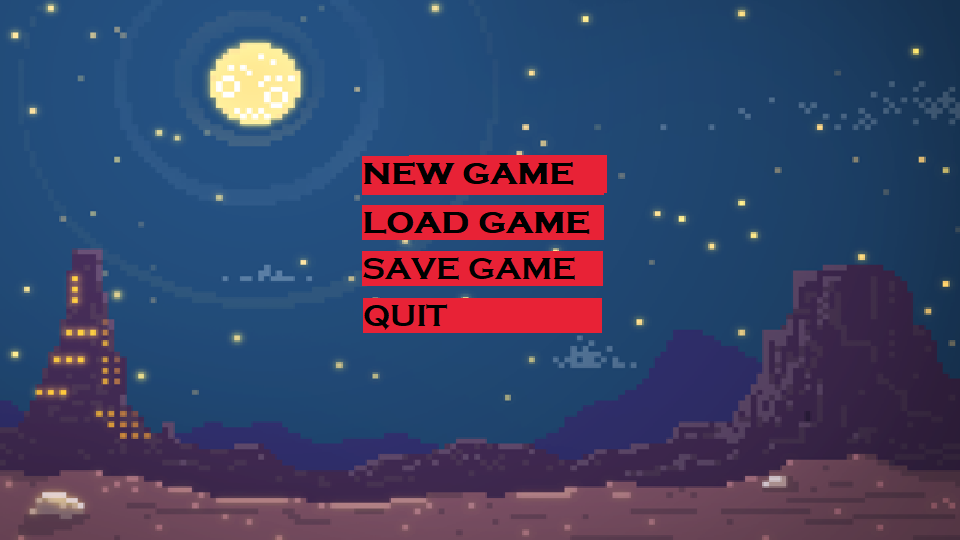
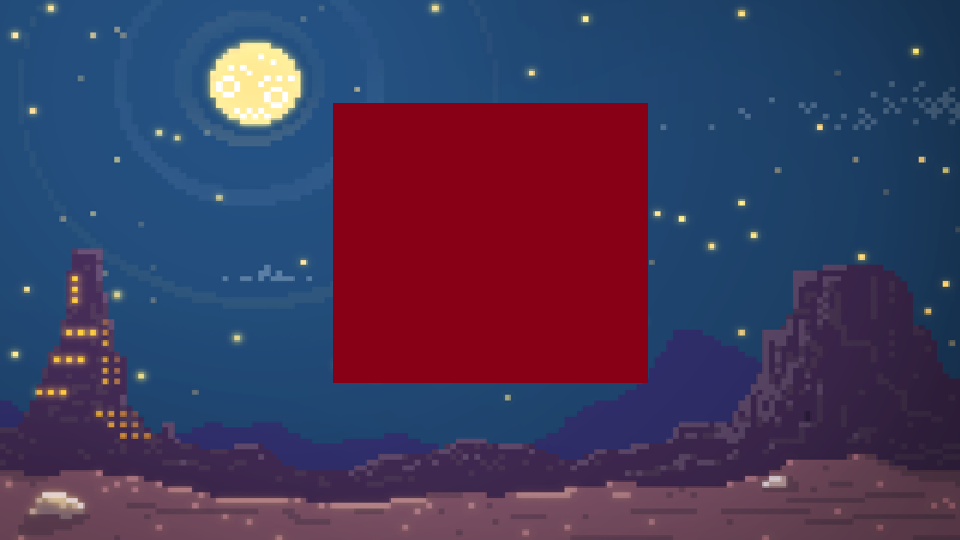
worldmap shittzle

Changed region(s): [[0.3438, 0.1778, 0.6875, 0.7111]]

diff --git a/WaterSmash/GameState/MenuGameState.cs b/WaterSmash/GameState/MenuGameState.cs
@@ -5,41 +5,159 @@ using System.Text;
 using System.Threading.Tasks;
 using Microsoft.Xna.Framework;
 using Microsoft.Xna.Framework.Input;
+using Microsoft.Xna.Framework.Graphics;
+using Microsoft.Xna.Framework.Content;
 
 namespace Water
 {
     class MenuGameState : IGameState
     {
         private GameStateManager gameStateManager;
+        GraphicsDevice graphics = GameServices.GetService<GraphicsDevice>();
+        ContentManager content = GameServices.GetService<ContentManager>();
+        Game1 game = GameServices.GetService<Game1>();
+        SpriteBatch spriteBatch;
+        Texture2D image;
+        List<Button> buttons = new List<Button>();
+        Button CurrentButton;
+        int index = 0;
+
+
+
 
         public MenuGameState(GameStateManager gameStateManager)
         {
+            
+            addButtons();
             this.gameStateManager = gameStateManager;
+            
         }
 
         public void Draw(GameTime gameTime)
         {
-            throw new NotImplementedException();
+            spriteBatch.Begin();
+
+            spriteBatch.Draw(image, new Rectangle(0, 0, 800, 480), Color.White);
+
+            
+
+            spriteBatch.End();
+            foreach (Button button in buttons)
+            {
+                button.Draw(spriteBatch);
+            }
+            //buttons.Draw(spriteBatch);
+            //start.Update();
+        }
+
+        private void addButtons()
+        {
+            Viewport viewport = graphics.Viewport;
+
+            Vector2 screenCenter = new Vector2(viewport.Width / 2f, viewport.Height / 2f);
+            
+
+            Rectangle button = new Rectangle((viewport.Width / 2) - (306/2), 50, 306, 64);
+            Texture2D play = content.Load<Texture2D>("play_default");
+            Texture2D playHover = content.Load<Texture2D>("play_hover");
+            buttons.Add(new Button(button, play, playHover, play, true));
+
+
+            Texture2D newGame = content.Load<Texture2D>("play_default");
+            Texture2D newGameHover = content.Load<Texture2D>("play_hover");
+            buttons.Add(new Button(new Rectangle((viewport.Width / 2) - (306 / 2), 150, 306, 64), newGame, newGameHover, newGame, false));
+
+
+
+            Texture2D loadGame = content.Load<Texture2D>("play_default");
+            Texture2D loadGameHover = content.Load<Texture2D>("play_hover");
+            buttons.Add(new Button(new Rectangle((viewport.Width / 2) - (306 / 2), 250, 306, 64), loadGame, loadGameHover, loadGame, false));
+
+
+
+            Texture2D saveGame = content.Load<Texture2D>("play_default");
+            Texture2D saveGameHover = content.Load<Texture2D>("play_hover");
+            buttons.Add(new Button(new Rectangle((viewport.Width / 2) - (306 / 2), 350, 306, 64), saveGame, saveGameHover, saveGame, false));
+
+
+            Texture2D quit = content.Load<Texture2D>("play_default");
+            Texture2D quitHover = content.Load<Texture2D>("play_hover");
+            buttons.Add(new Button(new Rectangle((viewport.Width / 2) - (306 / 2), 450, 306, 64), quit, quitHover, quit, false));
         }
 
         public void Entered(params object[] args)
         {
-            throw new NotImplementedException();
+            CurrentButton = buttons[0];
+            this.spriteBatch = new SpriteBatch(graphics);
+            image = content.Load<Texture2D>("start");
+            Texture2D play = content.Load<Texture2D>("play_default");
+            Texture2D playHover = content.Load<Texture2D>("play_hover");
+            
         }
-
+        bool keylock = false;
+        KeyboardState oldState;
         public void HandleInput(KeyboardState state)
         {
-            throw new NotImplementedException();
+            if (!keylock)
+            {
+                if (state.IsKeyDown(Keys.Down) && !oldState.IsKeyDown(Keys.Down))
+                {
+                    if (index < buttons.Count()-1)
+                    {
+                        index++;
+                        CurrentButton.setSelected(false);
+                        CurrentButton = buttons[index];
+                        CurrentButton.setSelected(true);                       
+                    }
+                    else
+                    {
+
+                    }
+                }
+                if (state.IsKeyDown(Keys.Up) && !oldState.IsKeyDown(Keys.Up))
+                {
+                    if (index > 0)
+                    {
+                        index--;
+                        CurrentButton.setSelected(false);
+                        CurrentButton = buttons[index];
+                        CurrentButton.setSelected(true); 
+                    }
+
+                }
+                if (state.IsKeyDown(Keys.Enter) && !oldState.IsKeyDown(Keys.Enter))
+                {
+                    if(CurrentButton == buttons[0])
+                    {
+                        gameStateManager.Change("worldmap", new Player());
+                    }
+                    if(CurrentButton == buttons[1])
+                    {
+                        gameStateManager.Change("worldmap");
+                    }
+                    if (CurrentButton == buttons[2])
+                    {
+                        game.Exit();
+                    }
+
+                }
+            }
+            oldState = state;
+            //wait();
         }
 
+        
         public void Leaving()
         {
-            throw new NotImplementedException();
+            content.Unload();
         }
 
         public void Update(GameTime gameTime)
         {
-            throw new NotImplementedException();
+            foreach (var button in buttons)
+            {
+                button.Update();
+            }
         }
     }
 }

diff --git a/WaterSmash/GameState/Button.cs b/WaterSmash/GameState/Button.cs
@@ -1,0 +1,75 @@
+using Microsoft.Xna.Framework;
+using Microsoft.Xna.Framework.Graphics;
+using Microsoft.Xna.Framework.Input;
+using System;
+using System.Collections.Generic;
+using System.Linq;
+using System.Text;
+using System.Threading.Tasks;
+using Microsoft.Xna.Framework.Content;
+
+namespace Water
+{
+    class Button
+    {
+        public enum State
+        {
+            None,
+            Pressed,
+            Hover,
+            Released
+        }
+
+        private Rectangle _rectangle;
+        private State _state;
+        private bool selected = false;
+        public State States
+        
+        {
+            get { return _state; }
+            set { _state = value; } // you can throw some events here if you'd like
+        }
+
+        private Dictionary<State, Texture2D> _textures;
+
+        public Button(Rectangle rectangle, Texture2D noneTexture, Texture2D hoverTexture, Texture2D pressedTexture, bool selected)
+        {
+            _rectangle = rectangle;
+            _textures = new Dictionary<State, Texture2D>
+        {
+            { State.None, noneTexture },
+            { State.Hover, hoverTexture },
+            { State.Pressed, pressedTexture }
+        };
+            this.selected = selected;
+            _state = State.Hover;
+        }
+
+        public void Update()//KeyboardState state
+        {
+
+            if (selected)
+            {
+                _state = State.Hover;
+            }
+            else
+            {
+                _state = State.None;
+            }
+        }
+
+        public void setSelected(bool selected)
+        {
+            this.selected = selected;
+        }
+
+        // Make sure Begin is called on s before you call this function
+        public void Draw(SpriteBatch s)
+        {
+            s.Begin();  
+            s.Draw(_textures[_state], _rectangle, Color.White);
+            s.End();   
+        }
+
+    }
+}

diff --git a/WaterSmash/Game1.cs b/WaterSmash/Game1.cs
@@ -15,10 +15,13 @@ namespace Water
         GameStateManager gameStateManager;
         GraphicsDeviceManager graphics;
         SpriteBatch spriteBatch;
+        Game1 game;
 
         public Game1()
         {
+            game = this;
             graphics = new GraphicsDeviceManager(this);
+            graphics.ToggleFullScreen();
             Content.RootDirectory = "Content";
         }
 
@@ -35,6 +38,8 @@ namespace Water
 
             GameServices.AddService<GraphicsDevice>(GraphicsDevice);
             GameServices.AddService<ContentManager>(Content);
+            GameServices.AddService<Game1>(game);
+
 
             gameStateManager = new GameStateManager();
 
@@ -44,7 +49,7 @@ namespace Water
             gameStateManager.Add("menu", new MenuGameState(gameStateManager));
             gameStateManager.Add("pause", new PauseGameState(gameStateManager));
 
-            gameStateManager.Change("worldmap");
+            gameStateManager.Change("menu");
         }
 
         /// <summary>

diff --git a/WaterSmash/GameState/WorldMapGameState.cs b/WaterSmash/GameState/WorldMapGameState.cs
@@ -47,7 +47,7 @@ namespace Water
 
         public void Entered(params object[] args)
         {
-            image = content.Load<Texture2D>("sprite");
+            image = content.Load<Texture2D>("worldmap");
          //   player = (AActor)args[0];
         }
 
